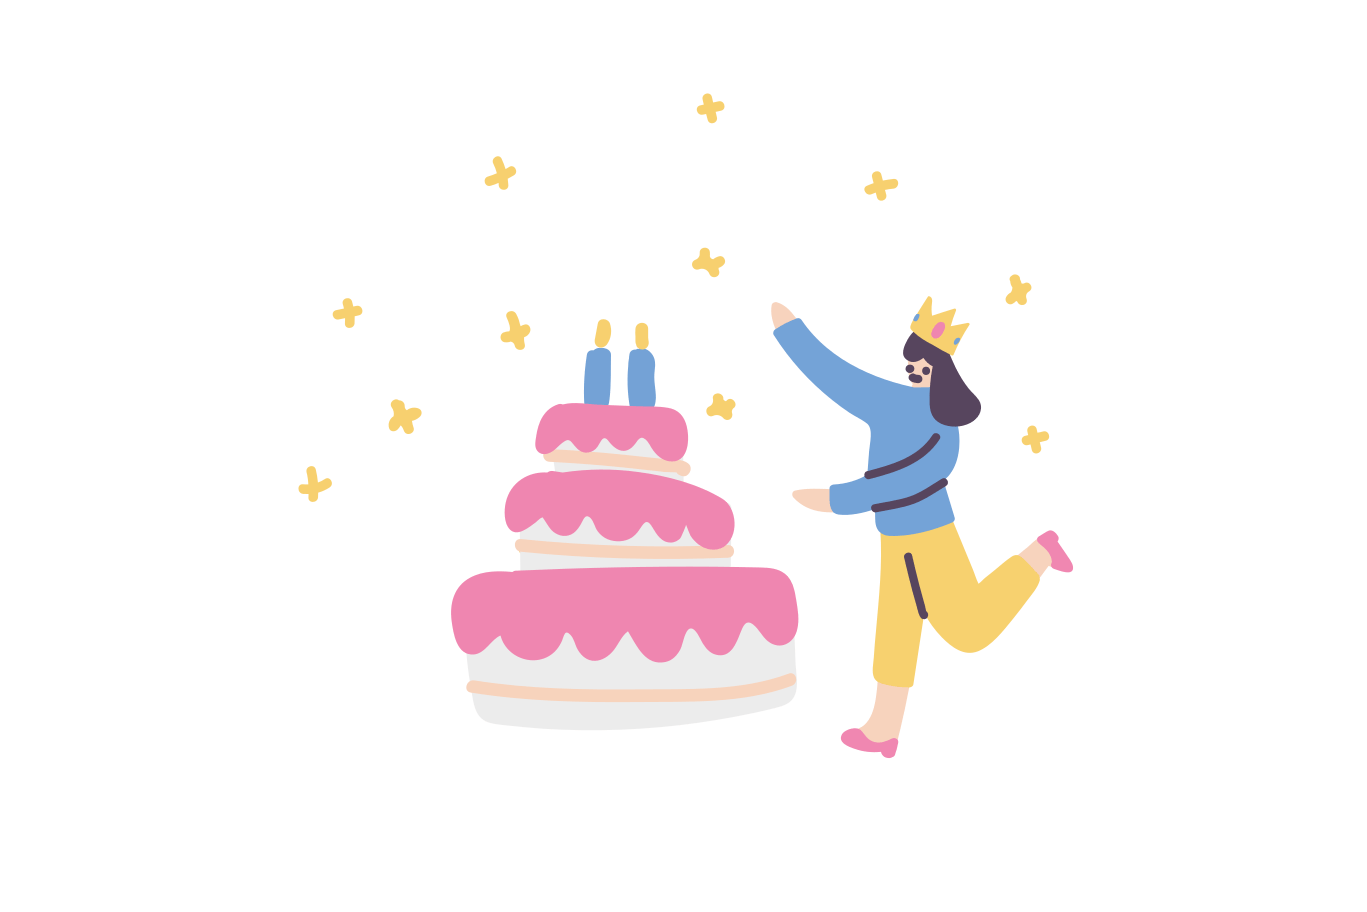
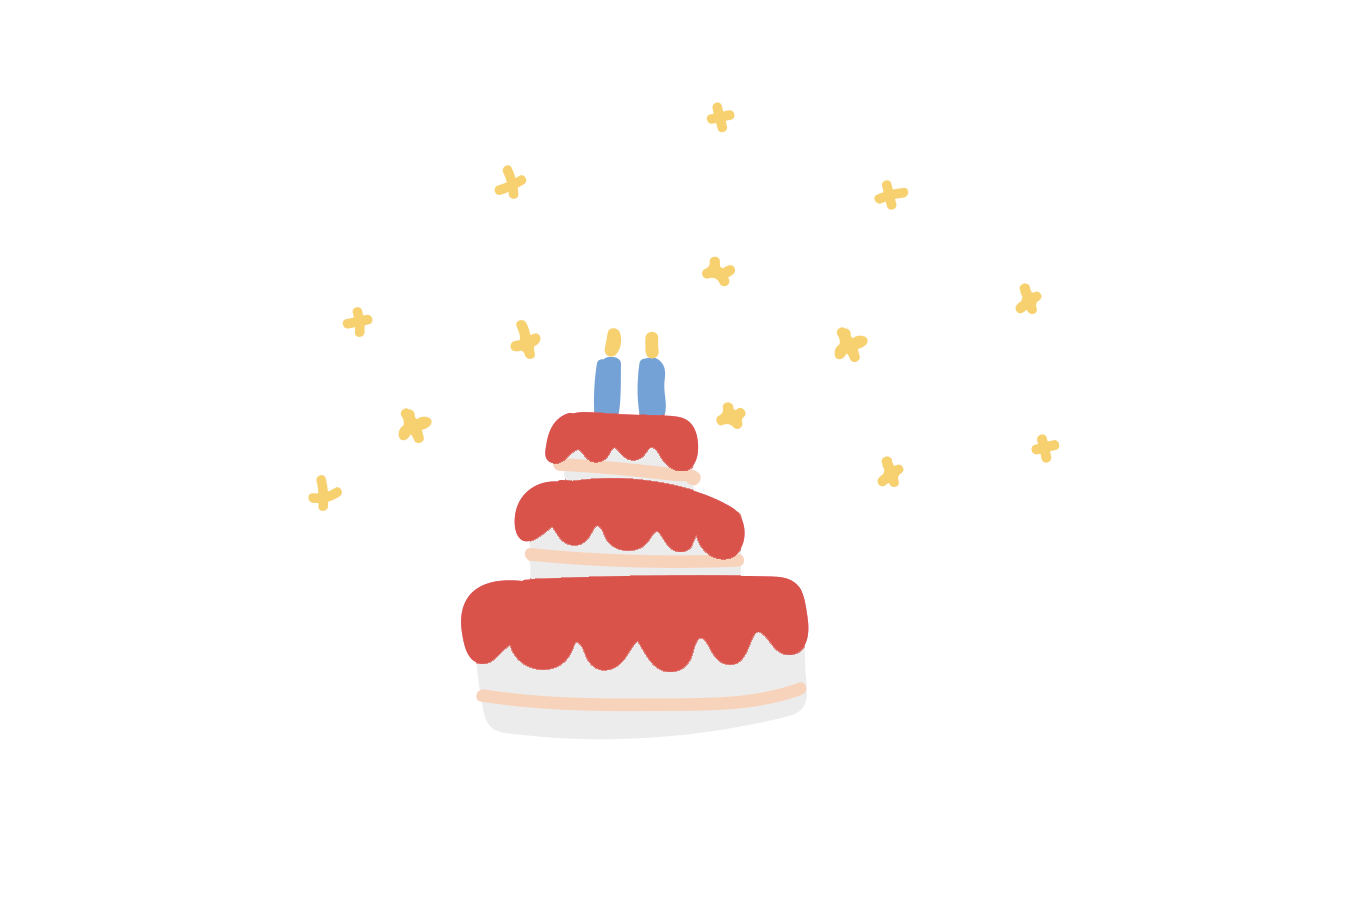
Исправления в комментариях и ответах, исправление поздравления с днем рождения

diff --git a/public/themes/wondertag/javascript/script.js b/public/themes/wondertag/javascript/script.js
@@ -271,13 +271,35 @@ function Wo_ReloadSideBarPages() {
 }
 
 // get new notifications
+
+let notification_container = $('.notification-container');
+let notification_list = $('#notification-list');
+let notificationData = '';
+
+$.get(Wo_Ajax_Requests_File(), {
+  f: 'get_notifications'
+}, function (data) {
+  if(data.status == 200) {
+    notificationData = data
+    if(data.html.length == 0) {
+      notification_list.html('<div class="empty_state"><svg viewBox="0 0 512 512" xmlns="http://www.w3.org/2000/svg"><path d="m416 512h-320c-53.023438 0-96-42.976562-96-96v-320c0-53.023438 42.976562-96 96-96h320c53.023438 0 96 42.976562 96 96v320c0 53.023438-42.976562 96-96 96zm0 0" fill="#e3f8fa"/><path d="m245.328125 384c19.3125 0 35.472656-13.761719 39.183594-32h-78.382813c3.726563 18.238281 19.886719 32 39.199219 32zm0 0" fill="#8ce1eb"/><path d="m320.128906 256c-.050781 0-.082031 0-.128906 0-41.167969 0-74.671875-33.488281-74.671875-74.671875 0-11.3125 2.609375-22.015625 7.136719-31.648437-2.351563-.222657-4.722656-.367188-7.136719-.367188-41.230469 0-74.671875 33.421875-74.671875 74.671875v29.742187c0 21.105469-9.25 41.027344-25.472656 54.753907-5.40625 4.625-7.808594 11.984375-5.871094 19.152343 2.289062 8.367188 10.527344 13.695313 19.199219 13.695313h173.601562c9.085938 0 17.664063-5.886719 19.503907-14.785156 1.421874-6.878907-1.023438-13.773438-6.371094-18.253907-15.519532-13.023437-24.476563-32.128906-25.117188-52.289062zm0 0" fill="#26c6da"/><path d="m373.328125 181.328125c0 29.453125-23.875 53.328125-53.328125 53.328125s-53.328125-23.875-53.328125-53.328125 23.875-53.328125 53.328125-53.328125 53.328125 23.875 53.328125 53.328125zm0 0" fill="#8ce1eb"/></svg>' + data.message + '</div>');
+    } else {
+      document.getElementById('notification-list').innerHTML = data.html;
+      Wo_intervalUpdates();
+    }
+  }
+});
+
 function Wo_OpenNotificationsMenu() {
-  notification_container = $('.notification-container');
-  notification_list = $('#notification-list');
   notification_container.find('.new-update-alert').addClass('hidden').text('0');
   $.get(Wo_Ajax_Requests_File(), {
     f: 'get_notifications'
   }, function (data) {
+    if(data.status === notificationData.status || data.html === notificationData.html) {
+      return false
+    } else {
+      notificationData = data
+    }
     if(data.status == 200) {
       if(data.html.length == 0) {
         notification_list.html('<div class="empty_state"><svg viewBox="0 0 512 512" xmlns="http://www.w3.org/2000/svg"><path d="m416 512h-320c-53.023438 0-96-42.976562-96-96v-320c0-53.023438 42.976562-96 96-96h320c53.023438 0 96 42.976562 96 96v320c0 53.023438-42.976562 96-96 96zm0 0" fill="#e3f8fa"/><path d="m245.328125 384c19.3125 0 35.472656-13.761719 39.183594-32h-78.382813c3.726563 18.238281 19.886719 32 39.199219 32zm0 0" fill="#8ce1eb"/><path d="m320.128906 256c-.050781 0-.082031 0-.128906 0-41.167969 0-74.671875-33.488281-74.671875-74.671875 0-11.3125 2.609375-22.015625 7.136719-31.648437-2.351563-.222657-4.722656-.367188-7.136719-.367188-41.230469 0-74.671875 33.421875-74.671875 74.671875v29.742187c0 21.105469-9.25 41.027344-25.472656 54.753907-5.40625 4.625-7.808594 11.984375-5.871094 19.152343 2.289062 8.367188 10.527344 13.695313 19.199219 13.695313h173.601562c9.085938 0 17.664063-5.886719 19.503907-14.785156 1.421874-6.878907-1.023438-13.773438-6.371094-18.253907-15.519532-13.023437-24.476563-32.128906-25.117188-52.289062zm0 0" fill="#26c6da"/><path d="m373.328125 181.328125c0 29.453125-23.875 53.328125-53.328125 53.328125s-53.328125-23.875-53.328125-53.328125 23.875-53.328125 53.328125-53.328125 53.328125 23.875 53.328125 53.328125zm0 0" fill="#8ce1eb"/></svg>' + data.message + '</div>');
@@ -288,6 +310,7 @@ function Wo_OpenNotificationsMenu() {
     }
   });
 }
+
 function Wo_OpenMessagesMenu() {
   messages_container = $('.messages-notification-container');
   messages_list = $('#messages-list');
@@ -2170,7 +2193,7 @@ function Wo_DeleteJoinedUser(user_id, group_id) {
 }
 
 function Wo_OpenReplyBox(id, el) {
-  Wo_ViewMoreReplies(id);
+  console.log(el.parentElement.nextElementSibling)
   $(el.parentElement.nextElementSibling).find('.view-more-replies').hide();
   $(el.parentElement.nextElementSibling).hide();
   $('.comments-list #comment_' + id).find('.comment-replies').slideDown(50, function () {
@@ -2193,6 +2216,13 @@ function Wo_OpenReplyBox(id, el) {
 	cur_input.val("" + reply_fullname + ", ");
 	cur_input.focus();
 }
+
+function Wo_OpenReplyBoxWithAnswers(id, el) {
+  Wo_ViewMoreReplies(id);
+  Wo_OpenReplyBox(id, el);
+  $('.answers_btn-' + id).hide();
+}
+
 // register post comment
 function Wo_RegisterReply(text, comment_id, user_id, event, page_id, type, mention_user) {
   if(event.keyCode == 13 && event.shiftKey == 0) {
@@ -2305,6 +2335,7 @@ function Wo_ViewMoreReplies(comment_id, e) {
 if($(e)) {
     $(e).hide()
 };
+  Wo_OpenReplyBox(comment_id, document.querySelector('#comment_' + comment_id + ' #ReplyComment'))
   let main_wrapper = $('[id=comment_' + comment_id + ']'),
       view_more_wrapper = main_wrapper.find('.view-more-replies'),
       reply_id = main_wrapper.find('.reply').last().attr('data-reply-id')

diff --git a/public/themes/wondertag/stylesheet/style.css b/public/themes/wondertag/stylesheet/style.css
@@ -528,6 +528,8 @@ header {margin-bottom: 30px;}
 .skel_comm_img {width: 100%;height: 120px;border-radius: 5px;}
 
 /*Empty State*/
+#bdayBox .empty_state {height: 350px;}
+#bdayBox .empty_state img {width: 100%; height: 100%; object-fit: cover;}
 .empty_state {padding: 60px 5px;font-size: 15px;color: #555;text-align: center;font-weight: 500;font-family: 'Readex Pro', sans-serif;width: 100%;}
 .empty_state svg {display: block;margin: 0 auto 15px;width: 70px;height: 70px;border-radius: 50%;}
 .empty_state .btn {font-family: "Roboto", sans-serif;margin-top: 40px;}
@@ -1541,6 +1543,11 @@ input.cusrange[type=range]::-ms-thumb {background-color: var(--main);width:15px;
 .tag_stories_on_home .tag_stories_mobi .status-list li.story_empty span b {margin: 0;width: 100%;height: 100%;border-radius: 50%;background: rgb(0 0 0 / 0.05);display: block;}
 .tag_stories_on_home .tag_stories_mobi .status-list li.story_empty p {height: 20px;background: rgb(0 0 0 / 0.05);margin: 20px 20px 0;border-radius: 5px;}
 
+/*Home Interests*/
+.interest {position: relative; display: flex; justify-content: center; text-align: center;}
+.interest p {position: absolute; font-size: 20px; color: #fff;}
+.interest a {width: 100%;}
+
 /*Greeting*/
 .skel_home_greet {height: 25px;width: 300px;margin: 1.5px 0 30px;}
 .greetalert {position: relative;padding: 0px;margin-bottom: 30px;}
@@ -1568,12 +1575,12 @@ input.cusrange[type=range]::-ms-thumb {background-color: var(--main);width:15px;
 
 /*Birthdays*/
 .tag_bdays {margin-bottom: 20px;padding: 5px;}
-.tag_bdays > .btn {box-shadow: none;width: 100%;background: transparent;color: #E91E63;line-height: 38px;text-align: inherit;padding: 0 8px;}
-.tag_bdays > .btn:hover {background-color: rgba(233, 30, 99, 0.05);}
+.tag_bdays > .btn {box-shadow: none;width: 100%;background: transparent;color: #e94335;line-height: 38px;text-align: inherit;padding: 0 8px;}
+.tag_bdays > .btn:hover {background-color: rgba(233, 67, 53, 0.05);}
 .tag_bdays > .btn img {position: absolute;right: 0;bottom: 0px;transform: rotate(-25deg);width: 40px;opacity: 0.7;}
-.tag_bdays > .btn svg {margin: -4px 5px 0 0;width: 28px;height: 28px;background-color: #E91E63;color: white;border-radius: 50%;padding: 4px;}
+.tag_bdays > .btn svg {margin: -4px 5px 0 0;width: 28px;height: 28px;background-color: #e94335;color: white;border-radius: 50%;padding: 4px;}
 .tag_bday_box.modal-content {padding: 14px 30px 0px;}
-.tag_bday_box > .empty_state {padding: 10px 0 20px;font-size: 25px;color: black;margin: -14px -30px 0;background: linear-gradient(#f8e4ff, #fff 60%);border-radius: 10px;width: calc(100% + 60px);}
+.tag_bday_box > .empty_state {padding: 10px 0 40px;font-size: 25px;color: black;margin: -14px -30px 0;background: #fff;border-radius: 10px;width: calc(100% + 60px);}
 .tag_bday_box > .empty_state img {user-select: none;pointer-events: none;display: block;margin: 0 auto -10px;width: 250px;}
 
 /*People You may Know*/
@@ -3960,6 +3967,7 @@ body.side_open {overflow: hidden !important;}
 @media (max-width:1030px) {
 .tag_hdr_right {left: calc(100vw - 270px);}
 .tag_stories_on_home .tag_stories_mobi .status-list li {width: 16.6666667%;min-width: 16.6666667%;}
+.tag_stories_on_home .tag_stories_mobi .status-list.tag_interests {overflow: auto;}
 }
 
 @media (max-width:1010px) {

diff --git a/public/themes/wondertag/stylesheet/dark.css b/public/themes/wondertag/stylesheet/dark.css
@@ -200,8 +200,8 @@ body .sidebar .wo_sidebar_pages .card {background-color: var(--header-background
 /*Home*/
 .greetalert > .btn {color: #d1d1d1;}
 .close:focus, .close:hover {color: #fff;}
-.tag_bday_box > .empty_state {color: white;background: linear-gradient(#736179, #212121 60%);}
-.tag_bdays > .btn {color: #ff6ea0;}
+.tag_bday_box > .empty_state {color: white;background: #212121;}
+.tag_bdays > .btn {color: #e94335;}
 .tag_stories_pc > li > a:hover {background-color: rgb(255 255 255 / 4%);}
 .promoted-post .promoted-icon {background-color: #48371e;}
 .promoted-post .post.boosted .panel {box-shadow: 0 0px 0px 1px #a47632, 0 1px 3px 0 rgba(0,0,0,.1), 0 1px 2px 0 rgba(0,0,0,.06);}

diff --git a/public/assets/includes/functions_general.php b/public/assets/includes/functions_general.php
@@ -2192,3 +2192,9 @@ function full_url( $s, $use_forwarded_host = false )
 {
     return url_origin( $s, $use_forwarded_host ) . $s['REQUEST_URI'];
 }
+
+function Wo_Geoyandex($text=''){if(empty($text)){return null;}
+    global $wo;
+    $api = ($wo['config']['yandex_geo_map_api'] ?? '');
+    return null;
+}
